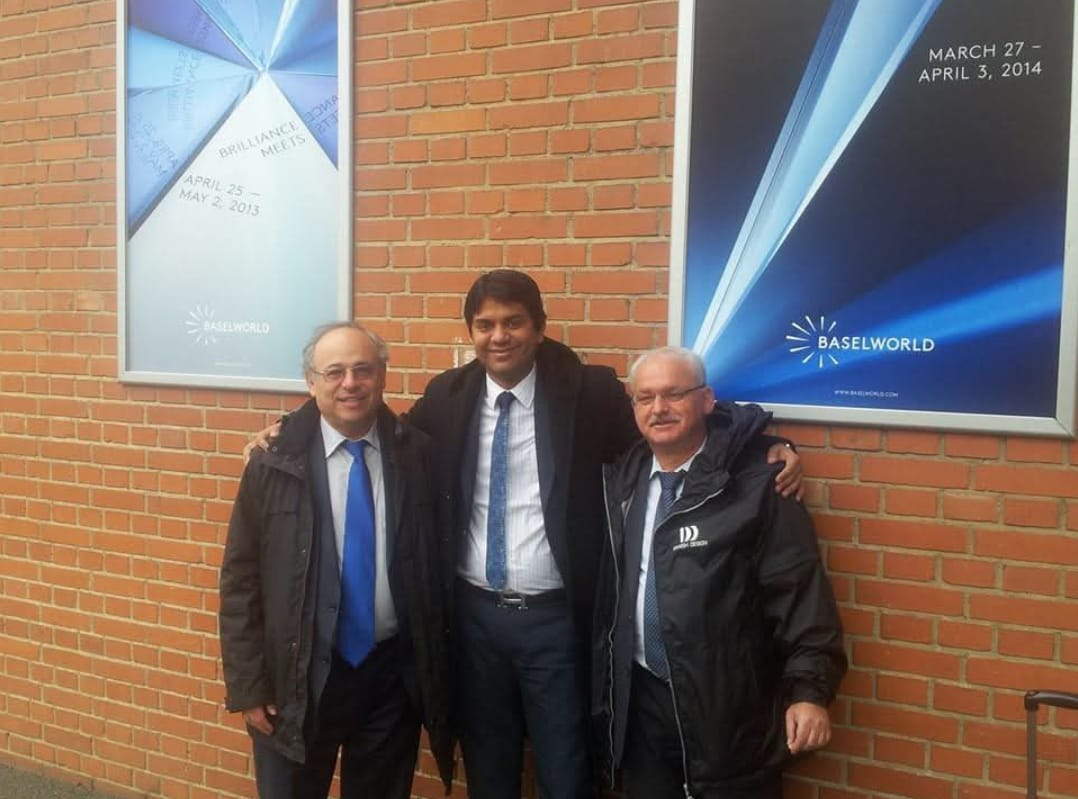
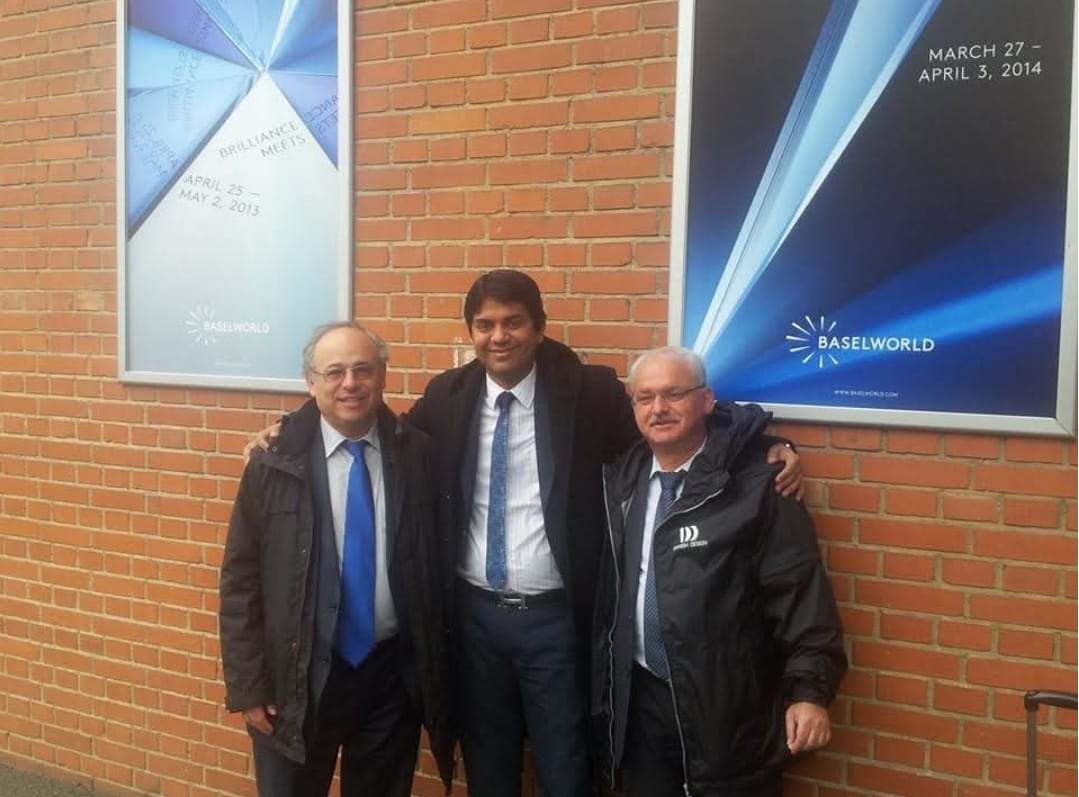
Updated Global Pictures

diff --git a/script.js b/script.js
@@ -18,17 +18,15 @@ const initializeAOS = () => {
 
     const observer = new IntersectionObserver(observerCallback, observerOptions);
     
-    // Observe all elements with data-aos attribute
     document.querySelectorAll('[data-aos]').forEach(element => {
         observer.observe(element);
     });
 };
 
-// Make sure this part of your script.js is correct
 document.addEventListener('DOMContentLoaded', function() {
     // Initialize our animation observer
     initializeAOS();
-    window.keepAnimated = true; // Keep animations once they've played
+    window.keepAnimated = true;
 
     // Parallax scrolling effect for hero section
     window.addEventListener('scroll', function() {
@@ -49,44 +47,35 @@ document.addEventListener('DOMContentLoaded', function() {
             const content = card.querySelector('.card-full-content').innerHTML;
             const title = card.querySelector('h3').textContent;
             
-            // Create overlay
             const overlay = document.createElement('div');
             overlay.className = 'fullscreen-overlay';
             
-            // Create content container
             const contentContainer = document.createElement('div');
             contentContainer.className = 'overlay-content';
             
-            // Add close button
             const closeBtn = document.createElement('button');
             closeBtn.className = 'overlay-close';
-            closeBtn.innerHTML = '&times;';
+            closeBtn.innerHTML = '×';
             
-            // Add title
             const titleElement = document.createElement('h2');
             titleElement.textContent = title;
             
-            // Add content
             const contentElement = document.createElement('div');
             contentElement.className = 'overlay-text';
             contentElement.innerHTML = content;
             
-            // Assemble the overlay
             contentContainer.appendChild(closeBtn);
             contentContainer.appendChild(titleElement);
             contentContainer.appendChild(contentElement);
             overlay.appendChild(contentContainer);
             
-            // Add to body
             document.body.appendChild(overlay);
             document.body.classList.add('no-scroll');
             
-            // Animation
             setTimeout(() => {
                 overlay.classList.add('active');
             }, 10);
             
-            // Close functionality
             closeBtn.addEventListener('click', function() {
                 overlay.classList.remove('active');
                 setTimeout(() => {
@@ -96,6 +85,7 @@ document.addEventListener('DOMContentLoaded', function() {
             });
         });
     });
+
     const readMoreButtons = document.querySelectorAll('.read-more-btn');
     
     readMoreButtons.forEach(button => {
@@ -107,8 +97,6 @@ document.addEventListener('DOMContentLoaded', function() {
                 this.textContent = 'Read Less';
             } else {
                 this.textContent = 'Read More';
-                
-                // Smooth scroll back to the card top when collapsing
                 setTimeout(() => {
                     card.scrollIntoView({ behavior: 'smooth', block: 'center' });
                 }, 100);
@@ -159,9 +147,144 @@ document.addEventListener('DOMContentLoaded', function() {
             }
         });
     });
+
+    // Global Gallery Navigation
+    const globalGallery = document.querySelector('.global-gallery .scroll-container');
+    const galleryContent = document.querySelector('.global-gallery .scroll-content');
+    const originalItems = Array.from(document.querySelectorAll('.gallery-item'));
+    const itemWidth = 400; // Width of each gallery item
+    const gap = 32; // Gap between items (2rem)
+    const itemsPerSet = originalItems.length;
+    const setWidth = (itemWidth + gap) * itemsPerSet;
+    const animationDuration = 600; // Match CSS transition duration
+
+    // Clone items for infinite loop
+    function updateClones() {
+        galleryContent.innerHTML = ''; // Clear existing content
+        const visibleSets = Math.ceil(window.innerWidth / setWidth) + 1; // Enough sets to fill screen plus buffer
+        
+        // Add multiple sets of items
+        for (let i = 0; i < visibleSets + 1; i++) {
+            originalItems.forEach(item => {
+                const clone = item.cloneNode(true);
+                galleryContent.appendChild(clone);
+            });
+        }
+    }
+
+    // Initial clone setup
+    updateClones();
+
+    // Create and add navigation buttons
+    const prevBtn = document.createElement('button');
+    prevBtn.className = 'gallery-nav prev-btn';
+    prevBtn.innerHTML = '<';
+    
+    const nextBtn = document.createElement('button');
+    nextBtn.className = 'gallery-nav next-btn';
+    nextBtn.innerHTML = '>';
+    
+    globalGallery.insertBefore(prevBtn, galleryContent);
+    globalGallery.appendChild(nextBtn);
+
+    let currentPosition = 0;
+    let isAnimating = false;
+
+    function updateGallery(instant = false) {
+        if (isAnimating && !instant) return;
+        
+        galleryContent.style.transition = instant ? 'none' : 'transform 0.6s cubic-bezier(0.4, 0, 0.2, 1)';
+        galleryContent.style.transform = `translateX(${currentPosition}px)`;
+        
+        if (!instant) {
+            isAnimating = true;
+            setTimeout(() => {
+                isAnimating = false;
+                // Check if we need to reset position
+                if (Math.abs(currentPosition) >= setWidth) {
+                    currentPosition += setWidth;
+                    galleryContent.style.transition = 'none';
+                    galleryContent.style.transform = `translateX(${currentPosition}px)`;
+                } else if (currentPosition > 0) {
+                    currentPosition -= setWidth;
+                    galleryContent.style.transition = 'none';
+                    galleryContent.style.transform = `translateX(${currentPosition}px)`;
+                }
+            }, animationDuration);
+        }
+    }
+
+    function moveGallery(direction) {
+        if (isAnimating) return;
+        const step = (itemWidth + gap) * direction;
+        currentPosition -= step;
+        updateGallery();
+    }
+
+    prevBtn.addEventListener('click', () => moveGallery(-1));
+    nextBtn.addEventListener('click', () => moveGallery(1));
+
+    // Auto-scroll functionality with infinite loop
+    let autoScrollInterval;
+    const autoScrollIntervalTime = 3000; // 3 seconds between slides
+    const totalAutoScrollTime = autoScrollIntervalTime + animationDuration; // Account for animation time
+
+    function startAutoScroll() {
+        stopAutoScroll(); // Clear any existing interval
+        autoScrollInterval = setInterval(() => {
+            if (!isAnimating) {
+                moveGallery(1);
+            }
+        }, totalAutoScrollTime);
+    }
+
+    function stopAutoScroll() {
+        clearInterval(autoScrollInterval);
+    }
+
+    // Start auto-scroll
+    startAutoScroll();
+
+    // Pause on hover
+    globalGallery.addEventListener('mouseenter', stopAutoScroll);
+    globalGallery.addEventListener('mouseleave', startAutoScroll);
+
+    // Add touch event handling for mobile devices
+    let touchStartX = 0;
+    let touchEndX = 0;
+
+    document.addEventListener('touchstart', e => {
+        touchStartX = e.changedTouches[0].screenX;
+        stopAutoScroll(); // Pause autoscroll on touch
+    });
+
+    document.addEventListener('touchend', e => {
+        touchEndX = e.changedTouches[0].screenX;
+        handleSwipe();
+        startAutoScroll(); // Resume autoscroll after swipe
+    });
+
+    function handleSwipe() {
+        const swipeDistance = touchEndX - touchStartX;
+        if (Math.abs(swipeDistance) > 50) {
+            moveGallery(swipeDistance > 0 ? -1 : 1);
+        }
+    }
+
+    // Add resize handler for responsive behavior
+    window.addEventListener('resize', () => {
+        stopAutoScroll();
+        updateClones();
+        currentPosition = 0;
+        updateGallery(true);
+        startAutoScroll();
+    });
+
+    // Initial position
+    updateGallery(true);
 });
 
-// Add touch event handling for mobile devices
+// Add touch event handling for mobile devices (outside DOMContentLoaded)
 let touchStartX = 0;
 let touchEndX = 0;
 
@@ -180,7 +303,7 @@ function handleSwipe() {
     
     scrollContainers.forEach(container => {
         const content = container.querySelector('.scroll-content');
-        if (Math.abs(swipeDistance) > 50) { // Minimum swipe distance
+        if (Math.abs(swipeDistance) > 50) {
             const currentTransform = content.style.transform;
             const currentX = currentTransform ? 
                 parseInt(currentTransform.replace(/[^\d-]/g, '')) : 0;
@@ -195,7 +318,6 @@ function handleSwipe() {
 
 // Add resize handler for responsive behavior
 window.addEventListener('resize', () => {
-    // Reset transforms on resize
     document.querySelectorAll('.scroll-content').forEach(content => {
         content.style.transform = 'translateX(0)';
     });

diff --git a/styles.css b/styles.css
@@ -354,26 +354,99 @@ nav {
     padding: 4rem 0;
     overflow: hidden;
 }
+/* Gallery Navigation Buttons */
+.scroll-container {
+    position: relative;
+}
 
+.gallery-nav {
+    position: absolute;
+    top: 50%;
+    transform: translateY(-50%);
+    background: var(--accent-color); /* Matches theme */
+    color: white;
+    border: none;
+    width: 48px;
+    height: 48px;
+    border-radius: 50%;
+    font-size: 1.5rem;
+    display: flex;
+    align-items: center;
+    justify-content: center;
+    cursor: pointer;
+    z-index: 10;
+    box-shadow: 0 4px 15px rgba(0, 0, 0, 0.1);
+    transition: all 0.3s ease;
+}
+
+.gallery-nav:hover {
+    background: var(--gold); /* Gold accent on hover */
+    transform: translateY(-50%) scale(1.1);
+    box-shadow: 0 6px 20px rgba(0, 0, 0, 0.15);
+}
+
+/* Add click animation */
+.gallery-nav:active {
+    transform: translateY(-50%) scale(0.95);
+}
+
+/* Add arrow-specific animations */
+.prev-btn {
+    left: 20px;
+}
+
+.next-btn {
+    right: 20px;
+}
+
+/* Smooth transition for gallery content */
+.scroll-content {
+    display: flex;
+    gap: 2rem;
+    padding: 2rem;
+    will-change: transform;
+    transition: transform 0.6s cubic-bezier(0.4, 0, 0.2, 1); /* Smooth animation */
+}
+
+@media (max-width: 768px) {
+    .gallery-nav {
+        width: 35px;
+        height: 35px;
+        font-size: 1.2rem;
+    }
+    
+    .prev-btn {
+        left: 10px;
+    }
+    
+    .next-btn {
+        right: 10px;
+    }
+}
+
+@media (max-width: 480px) {
+    .gallery-nav {
+        width: 30px;
+        height: 30px;
+        font-size: 1rem;
+    }
+}
 .scroll-container {
     width: 100%;
     overflow: hidden;
 }
-
 .scroll-content {
     display: flex;
     gap: 2rem;
     padding: 2rem;
     will-change: transform;
 }
-
 .brand-logo {
     flex: 0 0 200px;
     height: 100px;
     object-fit: cover;
     border-radius: 10px;
 }
-
 .gallery-item {
     flex: 0 0 400px;
     height: 600px;
@@ -382,7 +455,6 @@ nav {
     border-radius: 15px;
     position: relative;
 }
-
 .gallery-overlay {
     position: absolute;
     bottom: 0;
@@ -779,7 +851,6 @@ footer {
     .section-title {
         font-size: 1.75rem;
     }
-    
     .category-image {
         height: 180px;
     }

diff --git a/index.html b/index.html
@@ -151,7 +151,7 @@
         <h2 style="text-align: center;">Global Network</h2>
         <div class="scroll-container">
             <div class="scroll-content">
-                <div class="gallery-item" style="background-image: url('assets/International/1.jpg'); background-size: contain; background-repeat: no-repeat;"></div>
+                <div class="gallery-item" style="background-image: url('assets/International/1.png'); background-size: contain; background-repeat: no-repeat;"></div>
                 <div class="gallery-item" style="background-image: url('assets/International/2.jpg'); background-size: contain; background-repeat: no-repeat;"></div>
                 <div class="gallery-item" style="background-image: url('assets/International/3.jpg'); background-size: contain; background-repeat: no-repeat;"></div>
                 <div class="gallery-item" style="background-image: url('assets/International/4.jpg'); background-size: contain; background-repeat: no-repeat;"></div>
